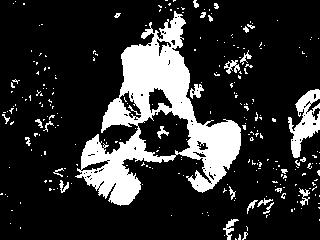
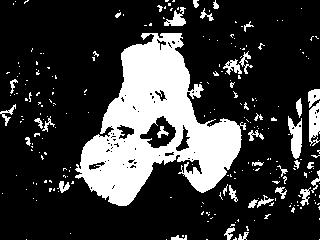
feat: Add new segmentation results

diff --git a/segmentation.py b/segmentation.py
@@ -7,8 +7,8 @@ Image.LOAD_TRUNCATED_IMAGES = True
 
 
 # параметры
-sigma = 50
-lambda_ = 30
+sigma = 60
+lambda_ = 2
 
 # ширина, высота и количество пикселей в изображениия
 width = 0
@@ -211,9 +211,9 @@ def segmentation(image_name, obj_pixels, bkg_pixels):
     # получаем минимальный разрез с помощью алгоритма Диница поиска максимального потока
     global graph
     graph = Graph(adj_matrix, 0, adj_matrix_size-1)
-    _, obj = graph.dinic(cut=True)
-    # _, partition = nx.algorithms.flow.minimum_cut(adj_matrix, 0, adj_matrix_size-1)
-    # obj, non_reachable = partition
+    #_, obj = graph.dinic(cut=True)
+    _, partition = nx.algorithms.flow.minimum_cut(adj_matrix, 0, adj_matrix_size-1)
+    obj, non_reachable = partition
 
     # пиксели из множества достижимых вершин обозначим 255 (белый), остальные - 0 (черный) и получим ч/б изображение
     img_result = [([0] * width) for i in range(height)]

diff --git a/metrics.py b/metrics.py
@@ -51,5 +51,5 @@ def metrics(path1, path2):
     print(common_pixels, obj_1, obj_2, common_pixels_obj)
     
 
-metrics(r'results\teddy-gr-320.jpg',
-                  r'image-segments-320\teddy-320.jpg')
+metrics(r'results\scissors-gr-320.jpg',
+                  r'image-segments-320\scissors-320.jpg')
